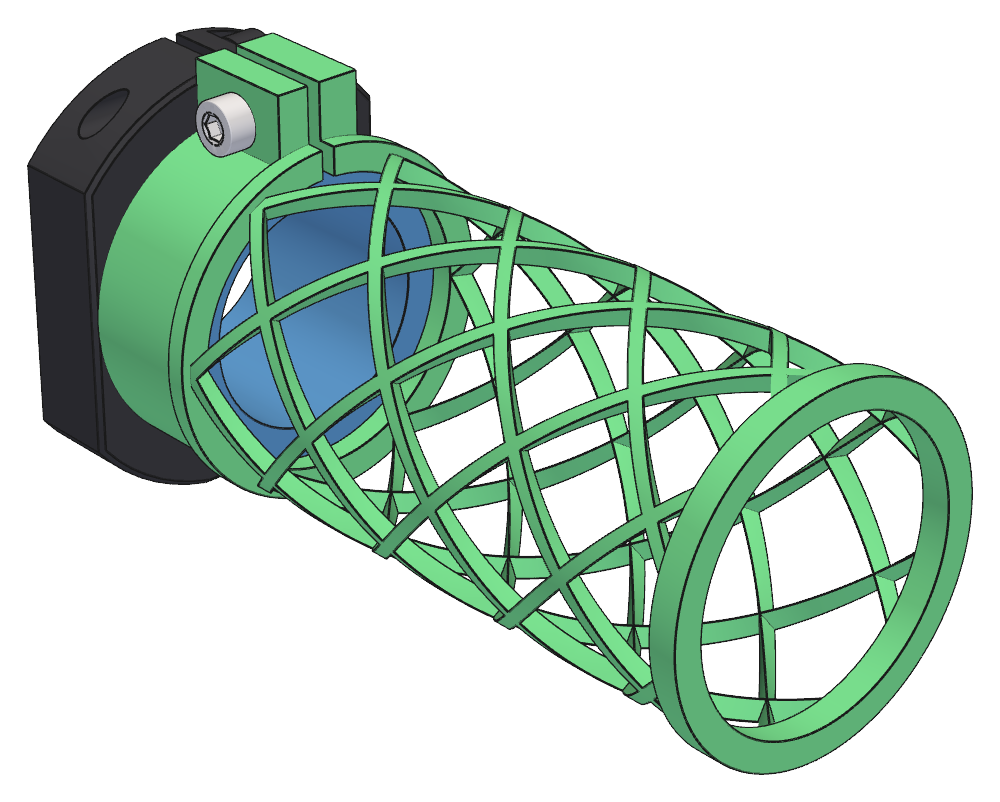
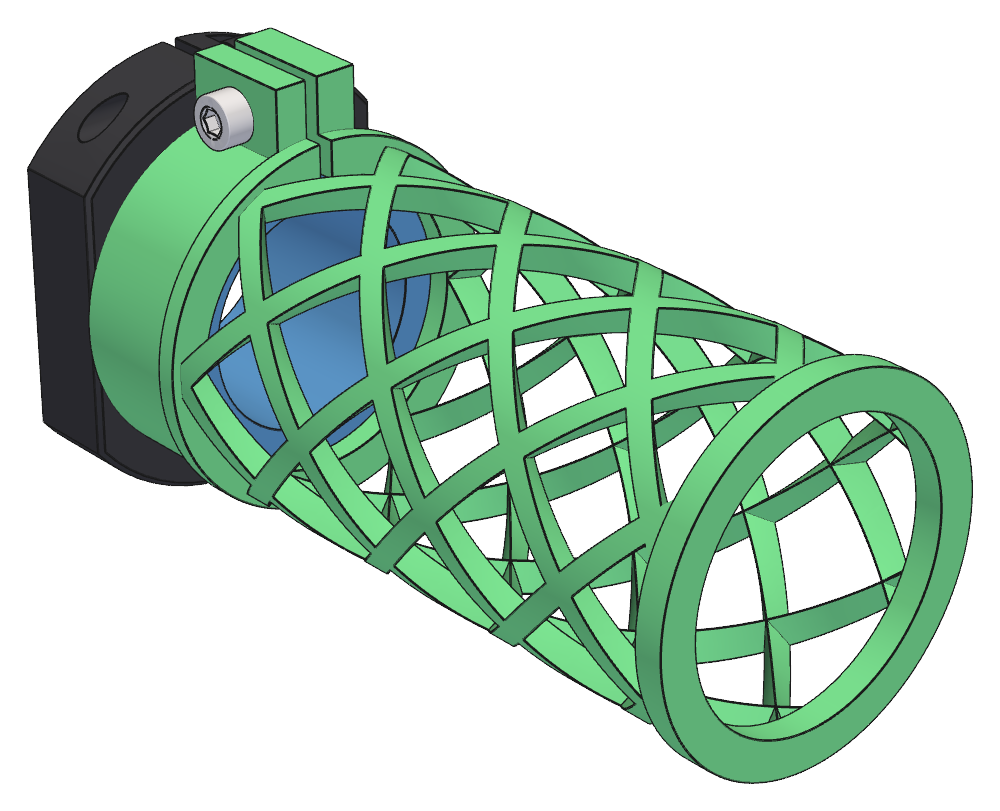
Widen baffle vanes and restore a small vane apex clearance

diff --git a/src/schlieren/parts/baffle.py b/src/schlieren/parts/baffle.py
@@ -59,7 +59,7 @@ class BaffleParameters:
 
     # Clamp, PLA fabrication allowances and geometry, as the rail shoe's collar (fit-test pending).
     clamp_bore_diametral_clearance: float = 0.20
-    clamp_wall: float = 2.0
+    clamp_wall: float = 3.0
     split_gap: float = 1.5
     nut_ear_thickness: float = 4.5
     screw_ear_thickness: float = 3.5
@@ -75,7 +75,7 @@ class BaffleParameters:
     rib_length: float = 2.0  # The near rib, behind the clamp.
     rib_height: float = 1.0  # Rib and far-rib radial height above the net's outside.
     vanes_per_hand: int = 6
-    vane_width: float = 2.0  # Circumferential, on the outside; the apex is a line along the bore.
+    vane_width: float = 3.5  # Circumferential, on the outside; the apex is a line along the bore.
     vane_apex_clearance: float = 0.02  # Apex above the bore, so no vane edge lies on the ribs' bore surface.
     far_rib_length: float = 3.0
     foil_thickness: float = 0.1  # One layer, as shown; the wrap may overlap itself.
@@ -194,7 +194,9 @@ class BaffleParameters:
         return self.net_diameter + 2 * self.foil_thickness
 
     def validate(self):
-        require_positive_dimensions(self)
+        require_positive_dimensions(self, allow_zero=True)
+        if self.vane_apex_clearance < 0:
+            raise ValueError("The vane apex must not lie inside the bore")
         if self.clamp_bore <= self.spigot_diameter:
             raise ValueError("Clamp bore must slip over the spigot")
         if (self.rib_diameter - self.foil_diameter) / 2 < 0.5:

diff --git a/tests/test_baffle.py b/tests/test_baffle.py
@@ -101,7 +101,7 @@ class BaffleTests(unittest.TestCase):
 
     def test_vanes_are_triangles_with_the_apex_on_the_bore(self):
         p = self.p
-        depth = 10.0
+        depth = 1.5 * p.node_pitch  # Midway between two rows of crossings, where a vane stands alone.
         for hand in (1, -1):
             azimuth = self.vane_azimuth(p.vane_phase_degrees, hand, depth)
             y = p.rib_back_y - depth
